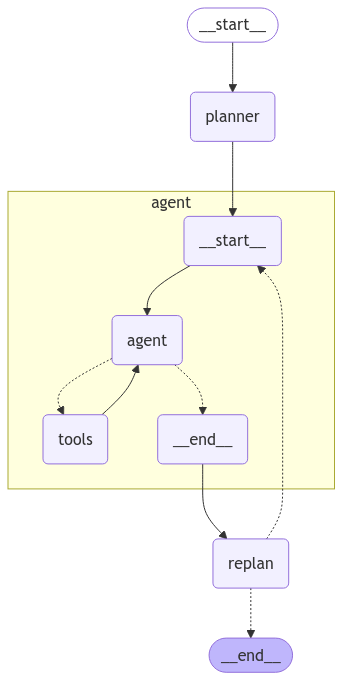
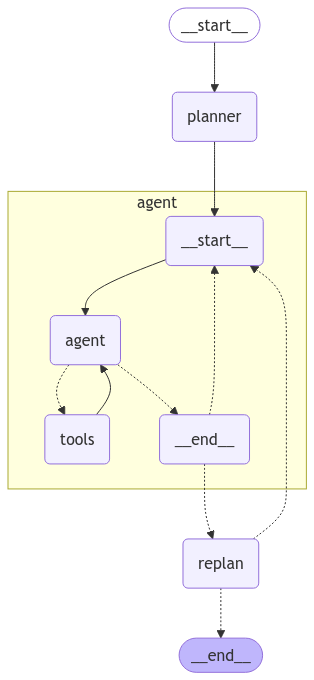
enumerate tools in system prompt

diff --git a/src/plan_and_execute.py b/src/plan_and_execute.py
@@ -85,7 +85,9 @@ planner_prompt = ChatPromptTemplate.from_messages(
             "system",
             """For the given objective, come up with a simple step by step plan.
             This plan should involve individual tasks, that if executed correctly will yield the correct answer.
-            Do not add any superfluous steps.
+            The plan should use trhe supplied tools when appropriate. The tools are """ +
+            ", ".join([f'{tool.name}: {tool.description}' for tool in tools]) +
+            """Do not add any superfluous steps.
             The result of the final step should be the final answer.
             Make sure that each step has all the information needed - do not skip steps.""",
         ),
@@ -157,8 +159,11 @@ async def execute_step(state: PlanExecute):
     agent_response = await agent_executor.ainvoke(
         {"messages": [("user", task_formatted)]}
     )
+    # Remove the executed step from the plan
+    remaining_plan = plan[1:] if len(plan) > 1 else []
     return {
         "past_steps": [(task, agent_response["messages"][-1].content)],
+        "plan": remaining_plan,
     }
 
 
@@ -180,6 +185,13 @@ async def replan_step(state: PlanExecute):
             print(f"- {task}")
         return {"plan": output.action.steps}
 
+
+def should_continue_plan(state: PlanExecute):
+    """Check if there are more steps in the plan to execute"""
+    if state["plan"]:
+        return "agent"
+    else:
+        return "replan"
 
 def should_end(state: PlanExecute):
     """Check if the workflow should end"""
@@ -205,8 +217,12 @@ workflow.add_edge(START, "planner")
 # From plan we go to agent
 workflow.add_edge("planner", "agent")
 
-# From agent, we replan
-workflow.add_edge("agent", "replan")
+# From agent, we check if there are more steps in the plan
+workflow.add_conditional_edges(
+    "agent",
+    should_continue_plan,
+    ["agent", "replan"],
+)
 
 workflow.add_conditional_edges(
     "replan",
@@ -231,6 +247,7 @@ inputs = {
 
 async def main():
     """Run the workflow."""
+    final_result = ""
     async for event in app.astream(inputs, config=config):
         for k, v in event.items():
             if k != "__end__":
@@ -238,6 +255,11 @@ async def main():
                     print("PLAN:")
                     for item in v["plan"]:
                         print(f"  - {item}")
+                if "past_steps" in v:
+                    for step, result in v["past_steps"]:
+                        print(f"EXECUTED: {step}")
+                        final_result += result + "\n"
+    print("DONE: "+final_result)
 
 
 def show_graph():
